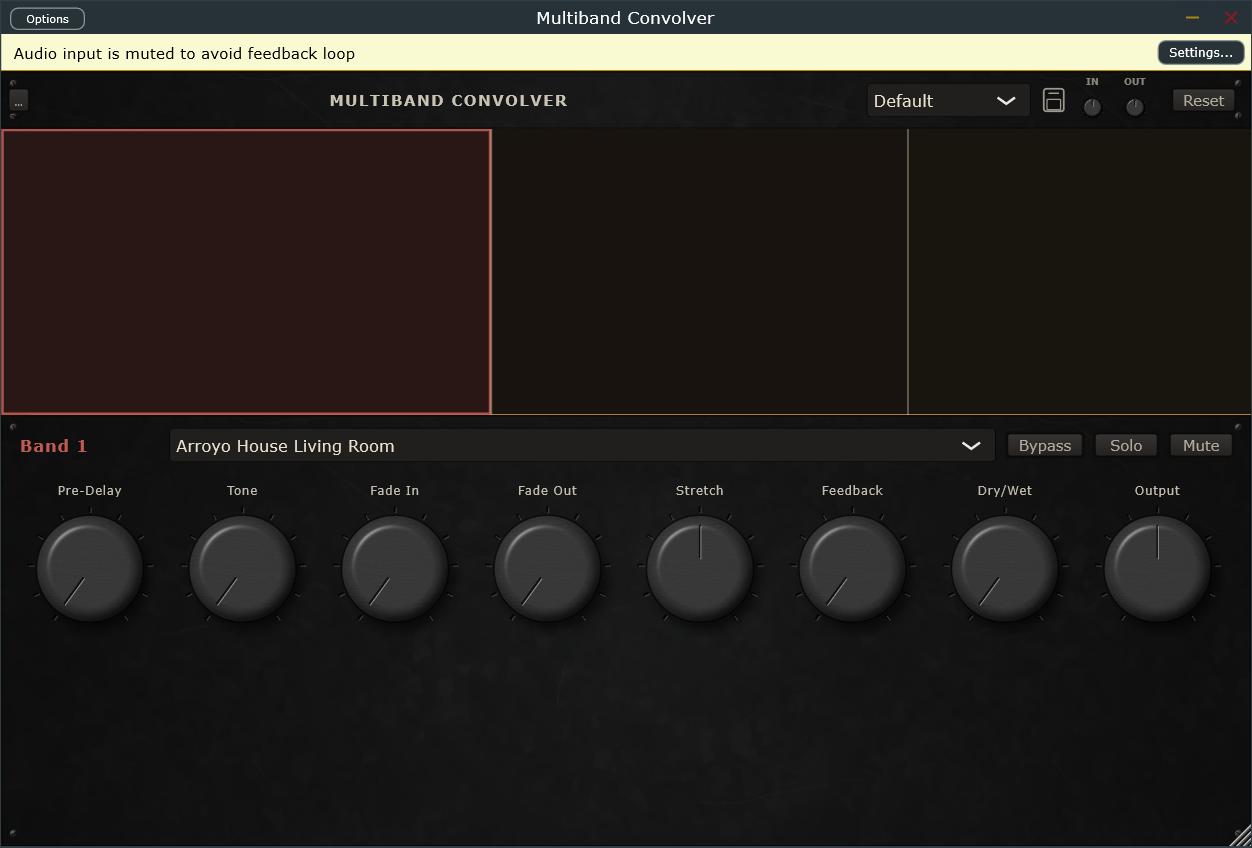
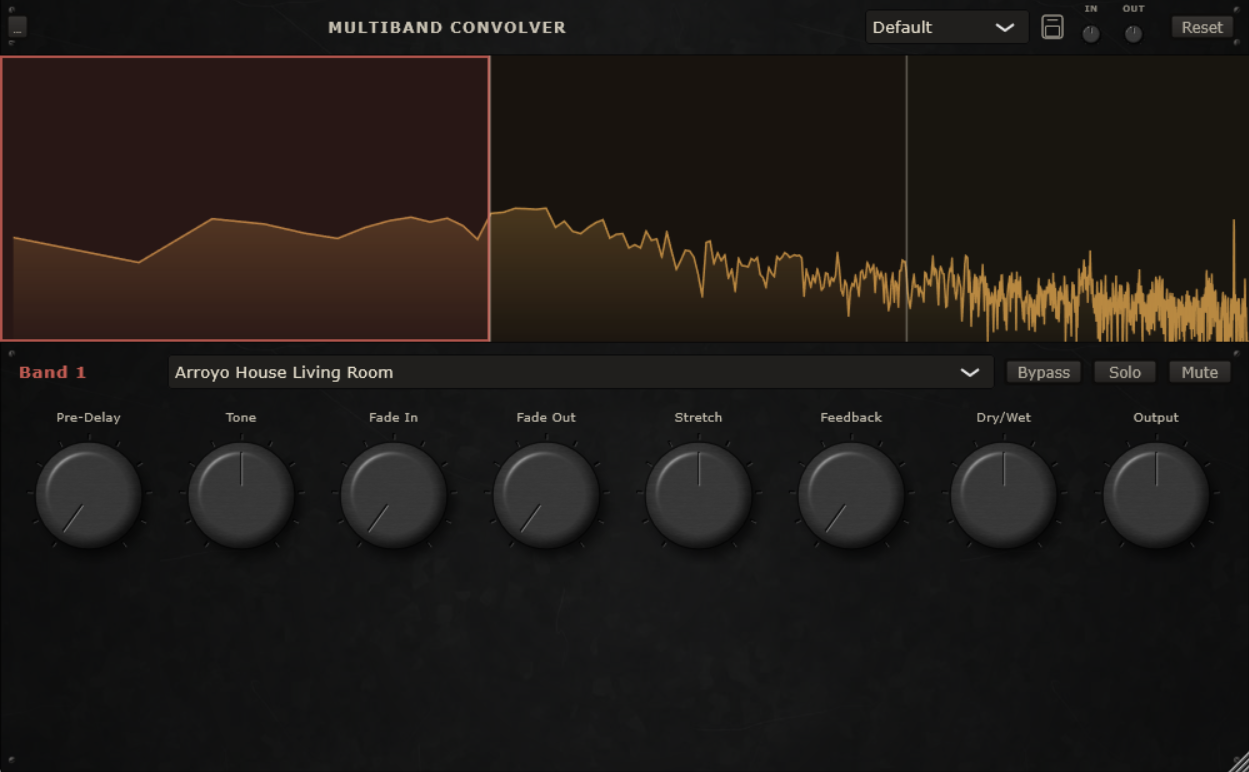
Update README screenshot and polish feature list

diff --git a/README.md b/README.md
@@ -23,8 +23,6 @@ while the highs bloom in a cathedral, all in one instance.
   (via the `...` menu -> "Open IR Library Folder") and they show up in the picker right alongside
   the factory library.
 - **Presets**: save/recall full plugin states from the header dropdown.
-- **Hardware-style GUI**: dark scratched-metal chassis, flat-topped beveled knobs with real
-  brushed-metal texture, styled after vintage hardware synths and mixing consoles.
 
 ## Installing
 
